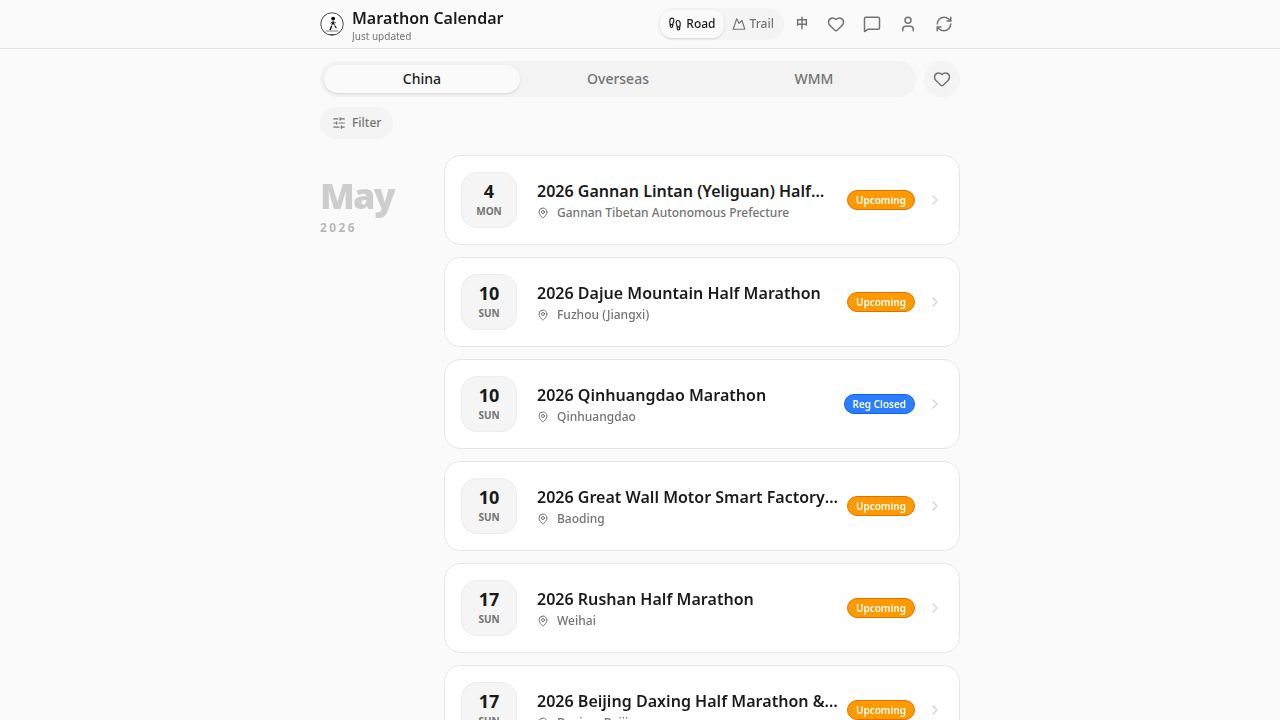
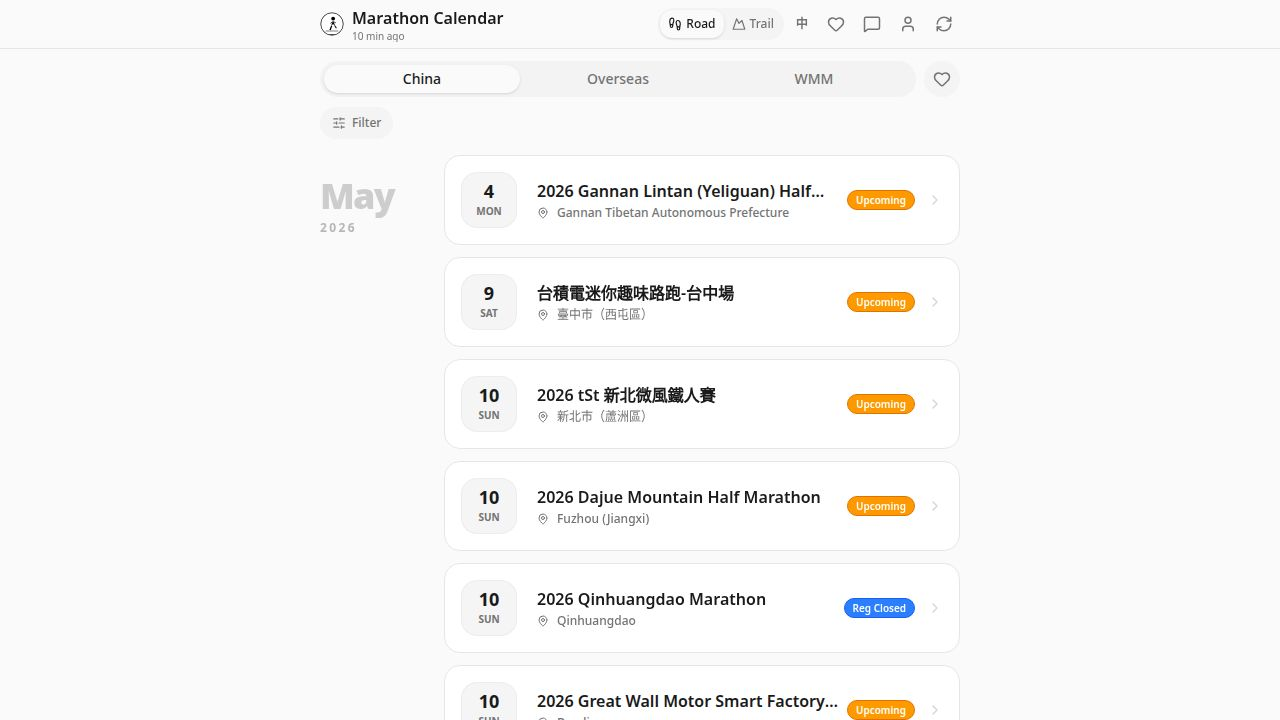
Add major Hong Kong marathons to the event listings
Manually adds three major Hong Kong marathons (Standard Chartered, HKZMB Half Marathon, and HKIA 3RS 10km) for 2026 to the database.

Replit-Commit-Author: Agent
Replit-Commit-Session-Id: d9e2c0ea-cb04-4da3-b72e-67a4c88417d4
Replit-Commit-Checkpoint-Type: full_checkpoint
Replit-Commit-Event-Id: 4376f584-371b-4be3-9f11-906dbdd55059
Replit-Commit-Screenshot-Url: https://storage.googleapis.com/screenshot-production-us-central1/5369cdcb-b7cb-4cc7-83a1-a04488b2fc0a/d9e2c0ea-cb04-4da3-b72e-67a4c88417d4/8giIHKD
Replit-Helium-Checkpoint-Created: true

diff --git a/script/seed-hk-marathons.ts b/script/seed-hk-marathons.ts
@@ -1,0 +1,221 @@
+/**
+ * Hand-curated Hong Kong marathon seed.
+ *
+ * Reason for hand-curation: there is no clean HK race aggregator accessible
+ * from a server (gobyrun = dead, sportsoho = Cloudflare, mevents.org.hk has
+ * only ~3 marathon events with messy date fields). See
+ * `.local/skills/crawler-overseas/SKILL.md` §3 for the full discovery log.
+ *
+ * Each race below was sourced from www.mevents.org.hk's "Major Sports Event"
+ * portal (HK government) cross-referenced with the organizer's own site.
+ *
+ * canonical_name: `hk-{slug}-{year}`
+ * country: 'China'  (HK is normalized to China per CHINA_COUNTRY_ALIASES)
+ *
+ * Run:
+ *   npx tsx script/seed-hk-marathons.ts [--dry]
+ *   TARGET_DB_URL=$PROD_DATABASE_URL npx tsx script/seed-hk-marathons.ts
+ */
+import "dotenv/config";
+import { Pool } from "pg";
+import { computeEditionStatus } from "../shared/status.js";
+
+const DRY = process.argv.includes("--dry");
+const DB_URL = process.env.TARGET_DB_URL || process.env.DATABASE_URL;
+if (!DB_URL) {
+  console.error("DATABASE_URL not set");
+  process.exit(1);
+}
+const pool = new Pool({ connectionString: DB_URL });
+
+const SOURCE_NAME = "Hong Kong major sports events (mevents.org.hk)";
+
+interface Seed {
+  slug: string;
+  name: string;
+  nameZh: string;
+  city: string;
+  websiteUrl: string;
+  raceKind: "marathon" | "trail";
+  description: string;
+  year: number;
+  raceDate: string | null;
+  distanceOptions: Array<{ kind: string }>;
+  startLocation: string | null;
+}
+
+// Notes:
+// - Standard Chartered Hong Kong Marathon 2026 ran on 2026-02-09 (already
+//   ended).  Next confirmed edition is the 2027 race already in DB.
+// - HKZMB (Hong Kong-Zhuhai-Macao Bridge) Half Marathon 2026 date not yet
+//   announced as of 2026-05-03 — leave date NULL, status=upcoming.
+// - 3RS Run (HKIA Three-Runway System 10km) 2026 date not yet announced.
+const SEEDS: Seed[] = [
+  {
+    slug: "standard-chartered-hong-kong-marathon",
+    name: "Standard Chartered Hong Kong Marathon",
+    nameZh: "渣打香港马拉松",
+    city: "香港",
+    websiteUrl: "https://www.hkmarathon.com/",
+    raceKind: "marathon",
+    description: "渣打香港马拉松（SCHKM），香港最具代表性的国际金标马拉松，由香港业余田径总会主办。",
+    year: 2026,
+    raceDate: "2026-02-09",
+    distanceOptions: [{ kind: "10KM" }, { kind: "21KM" }, { kind: "42KM" }],
+    startLocation: "中环遮打道",
+  },
+  {
+    slug: "hkzmb-half-marathon",
+    name: "HKZMB Half Marathon",
+    nameZh: "港珠澳大桥香港段半程马拉松",
+    city: "香港",
+    websiteUrl: "https://www.hzmb-halfmarathon.com/",
+    raceKind: "marathon",
+    description: "中银香港·港珠澳大桥（香港段）半程马拉松，由香港业余田径总会主办。",
+    year: 2026,
+    raceDate: null, // 2026 date TBA as of crawl
+    distanceOptions: [{ kind: "21KM" }],
+    startLocation: "港珠澳大桥香港口岸",
+  },
+  {
+    slug: "hkia-3rs-run",
+    name: "HKIA Three-Runway System 10km International Race",
+    nameZh: "香港国际机场三跑道系统10公里国际跑",
+    city: "香港",
+    websiteUrl: "https://www.3rsrun.com/",
+    raceKind: "marathon",
+    description: "香港国际机场三跑道系统10公里国际跑，香港业余田径总会与机管局合办，赛道沿全新第三跑道。",
+    year: 2026,
+    raceDate: null, // 2026 date TBA as of crawl
+    distanceOptions: [{ kind: "10KM" }],
+    startLocation: "香港国际机场",
+  },
+];
+
+async function ensureSourceId(): Promise<string> {
+  const existing = await pool.query<{ id: string }>(
+    "SELECT id FROM sources WHERE name=$1 LIMIT 1",
+    [SOURCE_NAME],
+  );
+  if (existing.rows[0]) return existing.rows[0].id;
+  const inserted = await pool.query<{ id: string }>(
+    `INSERT INTO sources(name, type, strategy, base_url, priority, notes)
+     VALUES($1, 'curated', 'manual', 'http://www.mevents.org.hk', 4,
+            '香港政府主办的大型体育赛事门户，参考路赛事人手录入')
+     RETURNING id`,
+    [SOURCE_NAME],
+  );
+  return inserted.rows[0].id;
+}
+
+async function upsertSeed(s: Seed, sourceId: string): Promise<"inserted" | "updated" | "skipped"> {
+  const canonical = `hk-${s.slug}-${s.year}`;
+
+  const existing = await pool.query<{ id: string }>(
+    "SELECT id FROM marathons WHERE canonical_name=$1 LIMIT 1",
+    [canonical],
+  );
+
+  // Name-clash guard.
+  const nameClash = await pool.query<{ id: string; canonical_name: string }>(
+    "SELECT id, canonical_name FROM marathons WHERE name=$1 AND canonical_name<>$2 LIMIT 1",
+    [s.name, canonical],
+  );
+  if (nameClash.rows[0] && !existing.rows[0]) {
+    console.warn(
+      `  ! skip name-clash ${canonical} → existing ${nameClash.rows[0].canonical_name}`,
+    );
+    return "skipped";
+  }
+
+  let marathonId: string;
+  let action: "inserted" | "updated";
+  if (existing.rows[0]) {
+    marathonId = existing.rows[0].id;
+    action = "updated";
+    if (!DRY) {
+      await pool.query(
+        `UPDATE marathons SET
+            name_zh = COALESCE(name_zh, $1),
+            city = COALESCE(city, $2),
+            city_zh = COALESCE(city_zh, $2),
+            country = 'China',
+            description = COALESCE(description, $3),
+            website_url = COALESCE(website_url, $4),
+            race_kind = $5,
+            updated_at = now()
+         WHERE id = $6`,
+        [s.nameZh, s.city, s.description, s.websiteUrl, s.raceKind, marathonId],
+      );
+    }
+  } else {
+    if (DRY) {
+      console.log(`  [dry] insert ${canonical} ${s.name}`);
+      return "inserted";
+    }
+    const ins = await pool.query<{ id: string }>(
+      `INSERT INTO marathons
+          (name, name_zh, canonical_name, city, city_zh, country,
+           description, website_url, race_kind)
+       VALUES($1,$2,$3,$4,$4,'China',$5,$6,$7)
+       RETURNING id`,
+      [s.name, s.nameZh, canonical, s.city, s.description, s.websiteUrl, s.raceKind],
+    );
+    marathonId = ins.rows[0].id;
+    action = "inserted";
+  }
+
+  if (DRY) return action;
+
+  const status = computeEditionStatus({ raceDate: s.raceDate });
+  await pool.query(
+    `INSERT INTO marathon_editions
+        (marathon_id, year, race_date, status, distance_options,
+         start_location, publish_status, published_at, last_synced_at)
+     VALUES($1,$2,$3,$4,$5::jsonb,$6,'published', now(), now())
+     ON CONFLICT (marathon_id, year) DO UPDATE SET
+        race_date = COALESCE(EXCLUDED.race_date, marathon_editions.race_date),
+        status = EXCLUDED.status,
+        distance_options = EXCLUDED.distance_options,
+        start_location = COALESCE(EXCLUDED.start_location, marathon_editions.start_location),
+        publish_status = 'published',
+        last_synced_at = now(),
+        updated_at = now()`,
+    [
+      marathonId,
+      s.year,
+      s.raceDate,
+      status,
+      JSON.stringify(s.distanceOptions),
+      s.startLocation,
+    ],
+  );
+
+  await pool.query(
+    `INSERT INTO marathon_sources(marathon_id, source_id, source_url)
+     VALUES($1, $2, $3)
+     ON CONFLICT DO NOTHING`,
+    [marathonId, sourceId, s.websiteUrl],
+  );
+
+  return action;
+}
+
+async function main() {
+  console.log(`HK marathon seed — DRY=${DRY}`);
+  const sourceId = DRY ? "dry-source" : await ensureSourceId();
+  const stats = { inserted: 0, updated: 0, skipped: 0 };
+  for (const s of SEEDS) {
+    const r = await upsertSeed(s, sourceId);
+    stats[r]++;
+    console.log(`  ${r.padEnd(8)} hk-${s.slug}-${s.year} (${s.name})  date=${s.raceDate ?? "TBA"}`);
+  }
+  console.log("\n=== Summary ===");
+  console.log(stats);
+  await pool.end();
+}
+
+main().catch((err) => {
+  console.error(err);
+  process.exit(1);
+});

diff --git a/replit.md b/replit.md
@@ -57,6 +57,7 @@ The scheduler auto-runs in production or when `SYNC_SCHEDULER_ENABLED=true`. In 
 ## 2026-05-03 changelog (this session)
 - 新增台灣賽事資料源 **Bravelog**（`script/import-bravelog.ts`）：JSON API at `/search?start=YYYY/MM/DD&end=YYYY/MM/DD`（需 `X-Requested-With: XMLHttpRequest` header），canonical_name=`bravelog-{uid}`，country='China'，2026 年共匯入 35 場（32 路跑 + 3 越野，DOR 線上跑被過濾）。dev + prod 同步完成。
 - 香港資料源探查：`gobyrun.com/hk` 已停運，`sportsoho.com` 有 Cloudflare 攔截，`runourcity` 是 NGO 非聚合站，`mevents.org.hk` 只有 3-4 場，`worldsmarathons.com` 沒有 HK 篩選。**結論：目前沒有可用的香港聚合源，需手工錄入主要賽事**。完整探查記錄寫在 `.local/skills/crawler-overseas/SKILL.md`。
+- 香港賽事手工種子（`script/seed-hk-marathons.ts`）：以 `hk-{slug}-{year}` 為 canonical_name，country='China'，dev + prod 各匯入 3 場（Standard Chartered HK Marathon 2026、HKZMB Half Marathon 2026、HKIA 3RS 10km 2026）。日期待公佈者 race_date=NULL，狀態 upcoming。
 - 跨資料源去重策略：靠 (1) 各源獨立 canonical_name 命名空間 (`bravelog-*`, `zuicool-*`, `nowrun-*`)；(2) importer 內 name-clash 守衛（同名但不同 canonical_name 時拒絕覆蓋）。不做模糊自動合併。
 - Removed external-link arrow icons from list rows (`MarathonTable.tsx`); detail dialog/page still has "Open Site" CTA.
 - Status badges switched to saturated `bg-{color}-500 + text-white`; added `@source "../../shared"` to `client/src/index.css` so Tailwind v4 scans `shared/` for class strings.